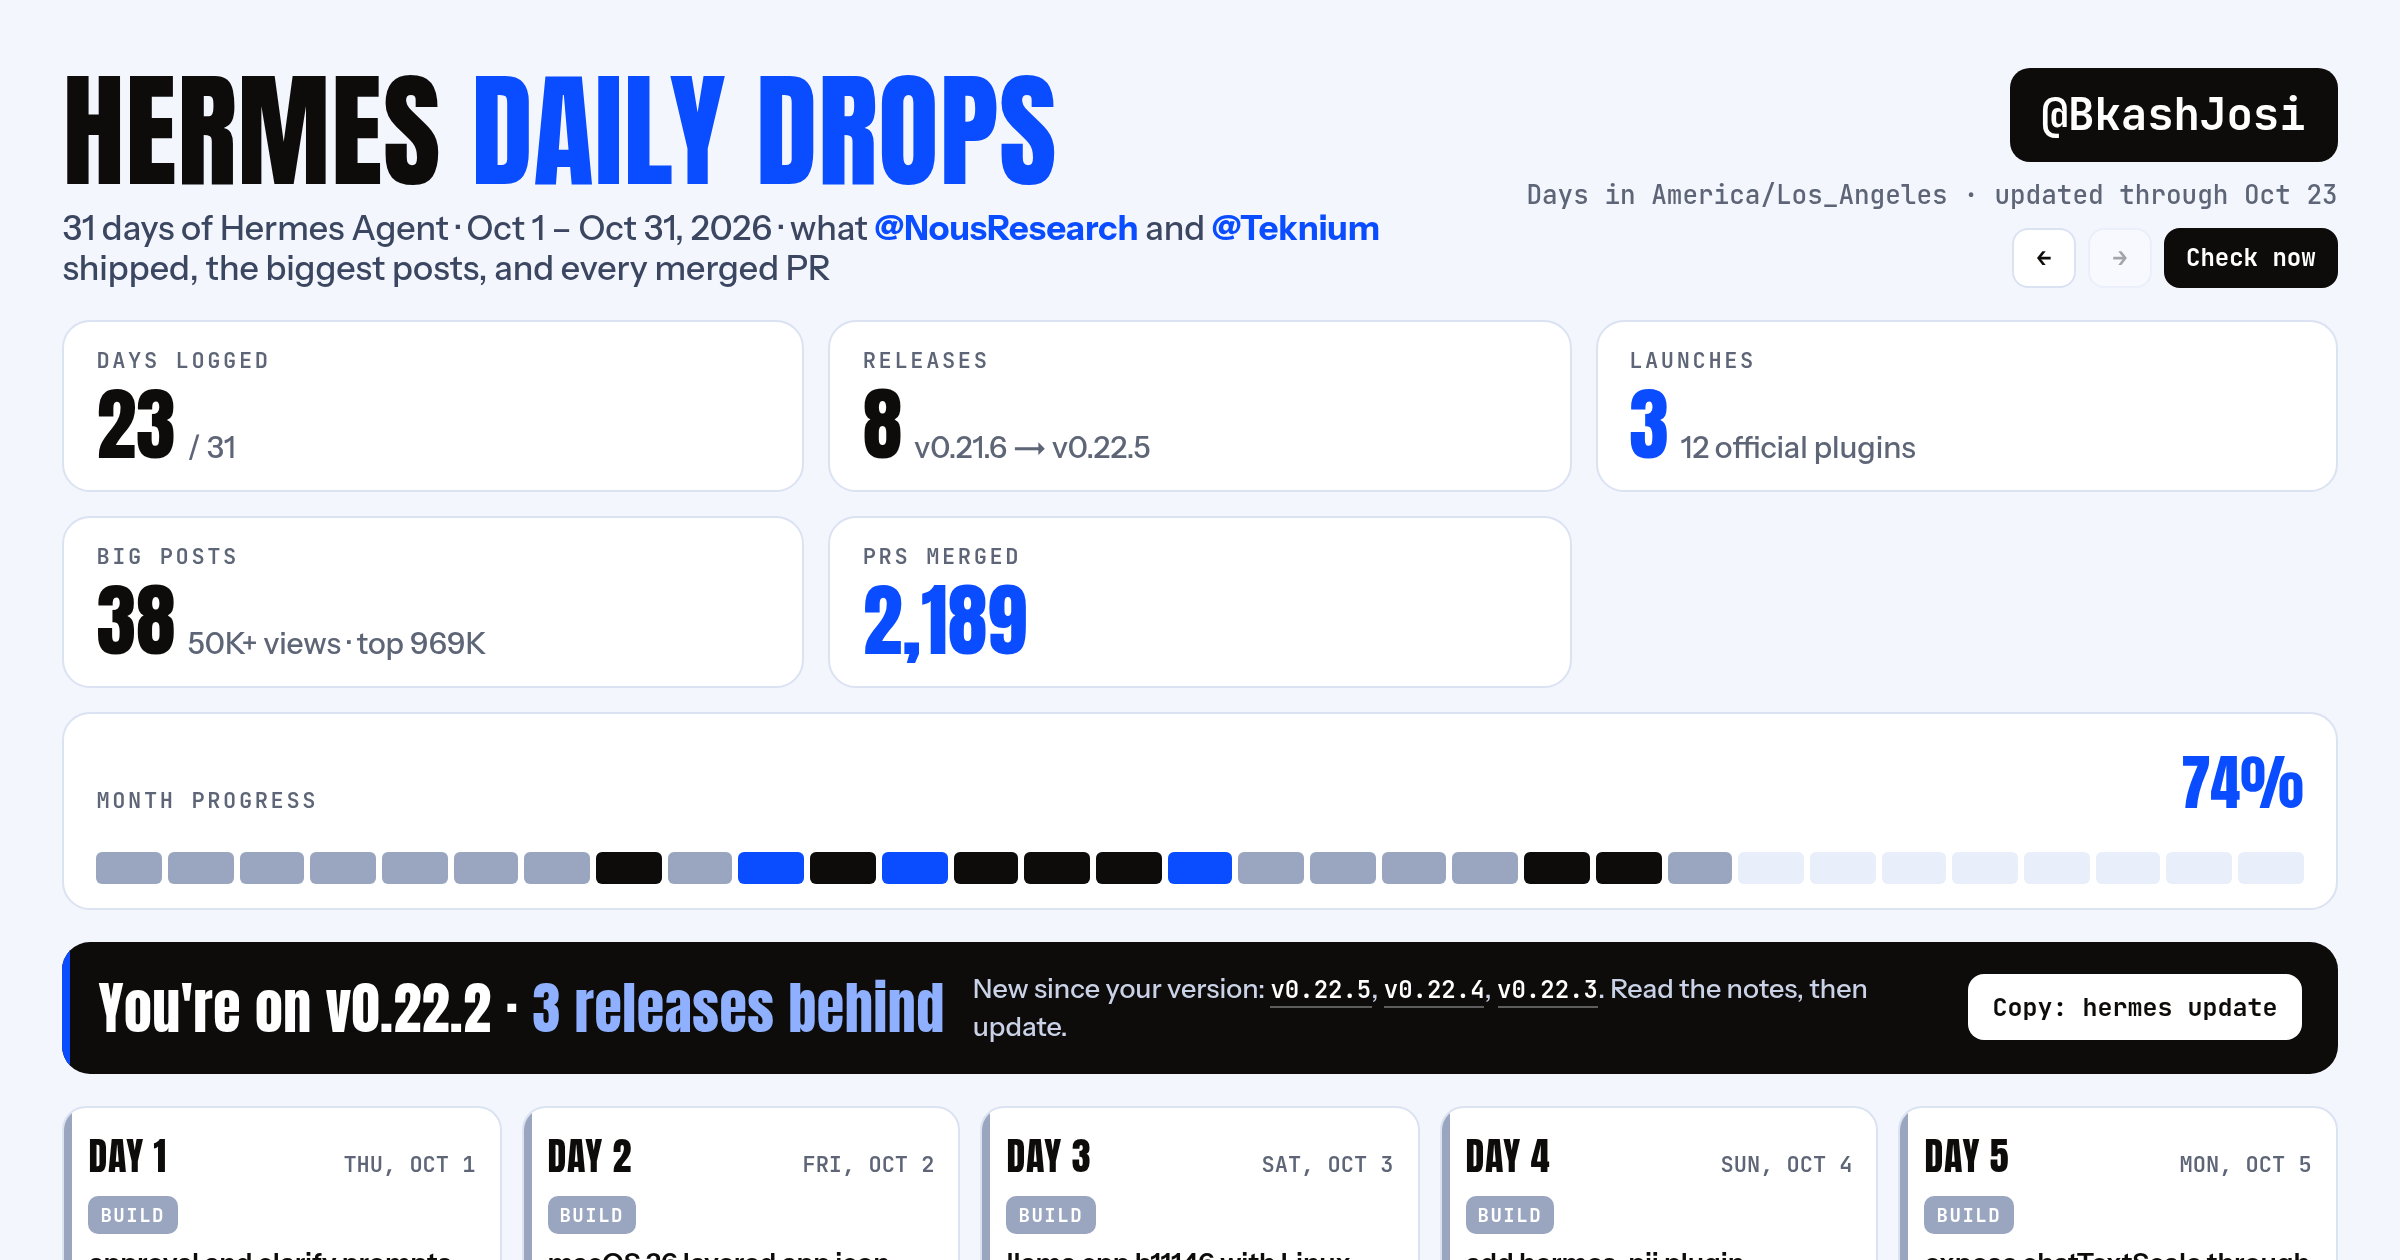
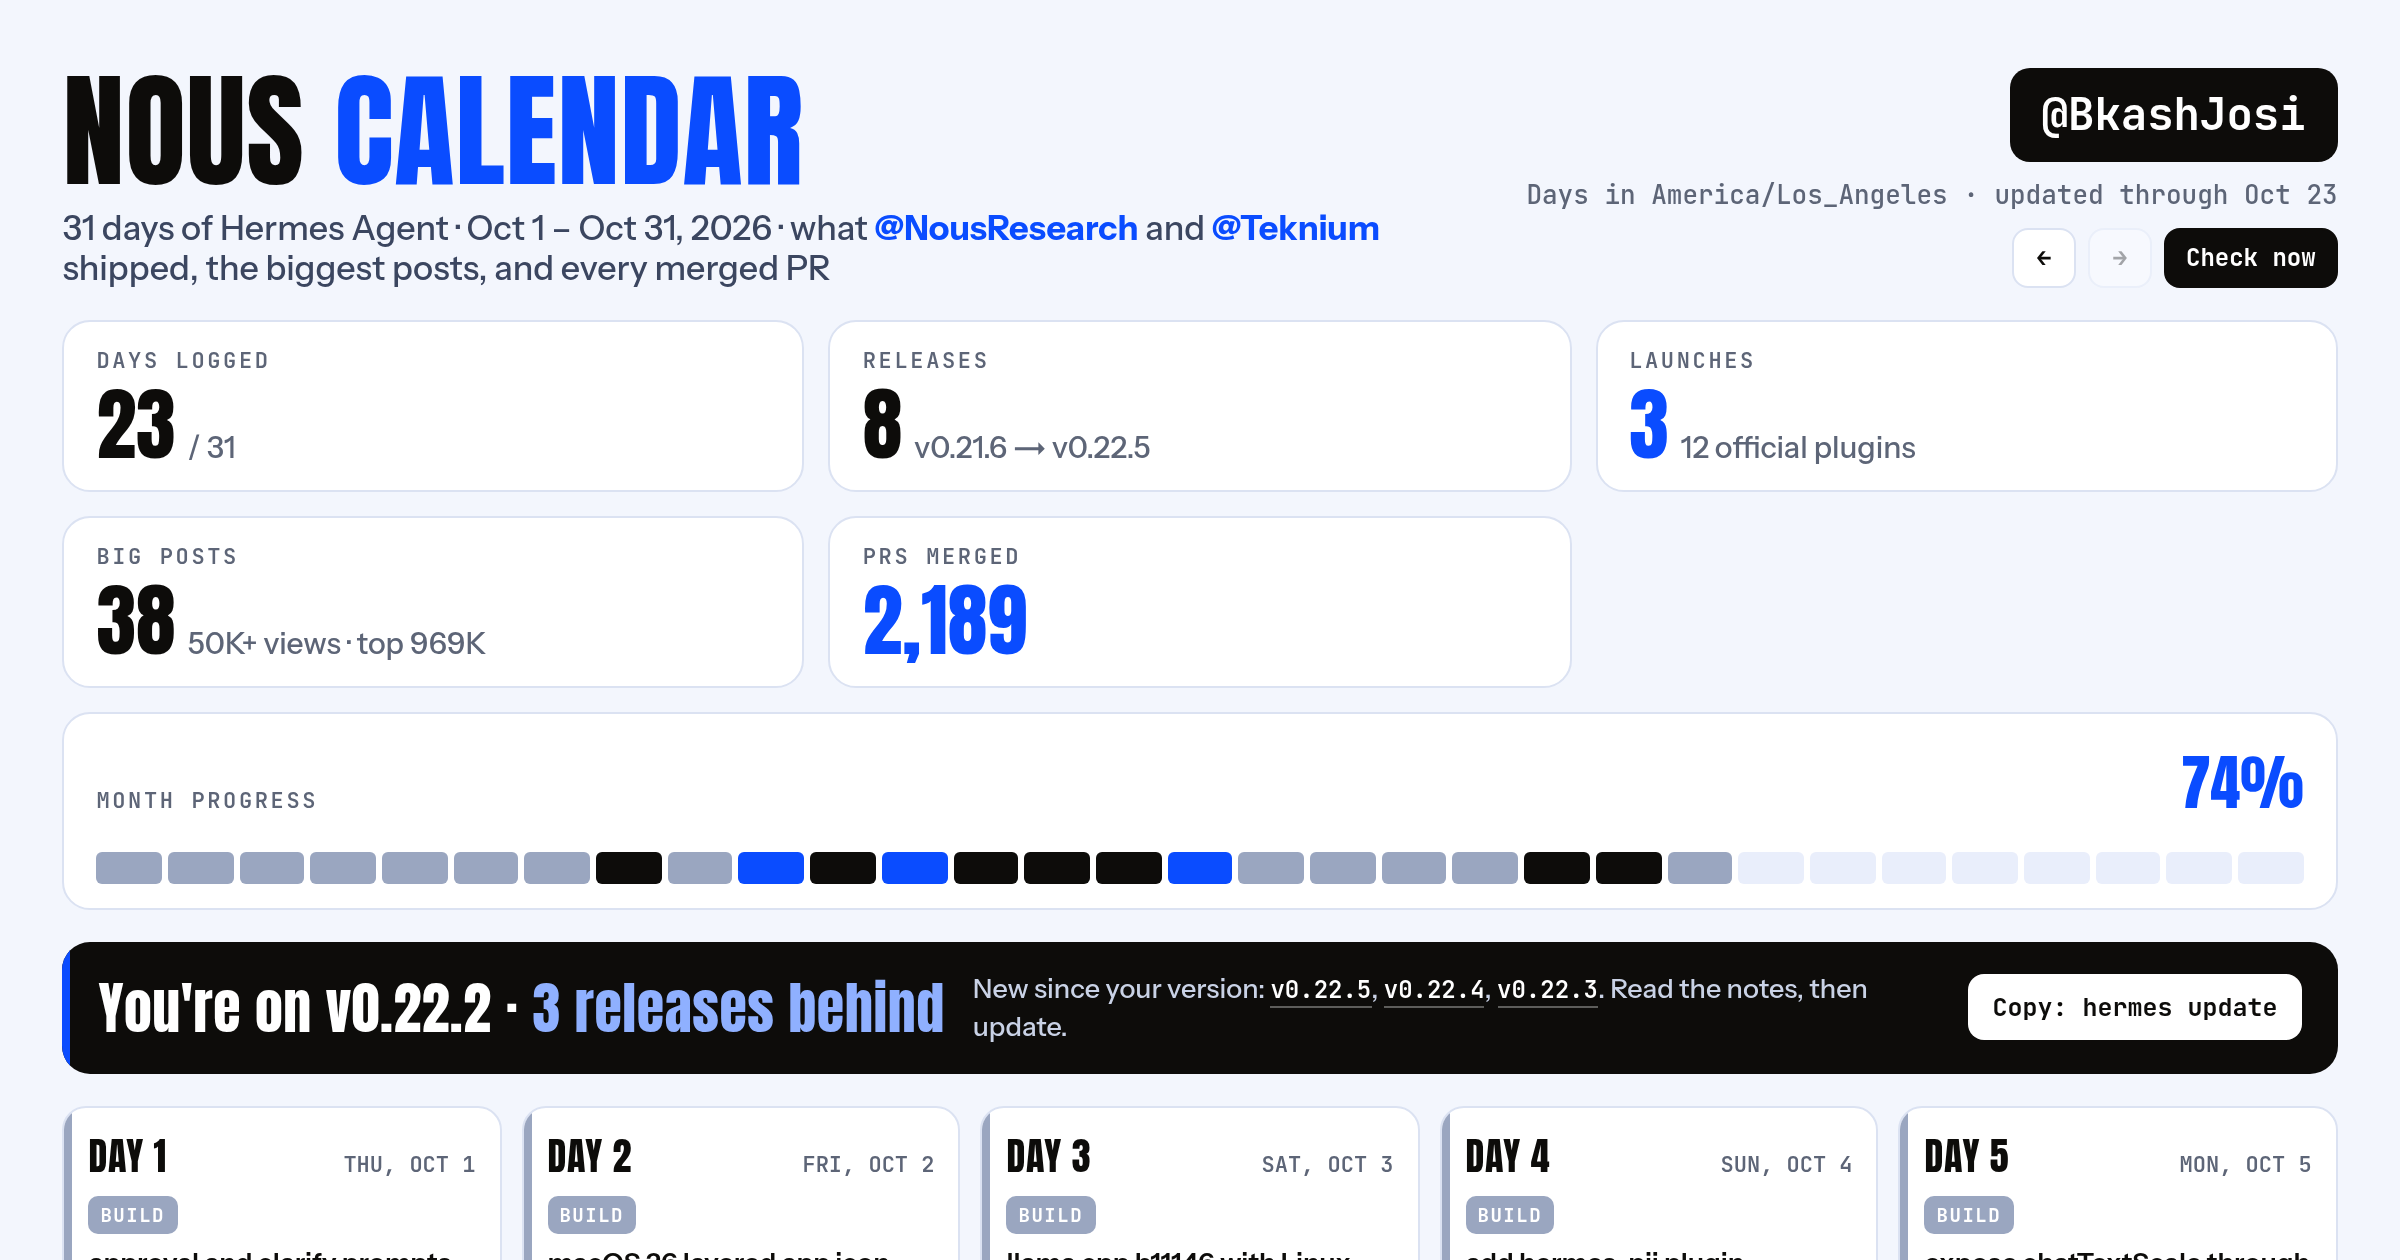
0.2.3: titled NOUS CALENDAR everywhere; fresh README screenshots

Changed region(s): [[0.0312, 0.0619, 0.4375, 0.1548]]

diff --git a/web/index.html b/web/index.html
@@ -1,8 +1,9 @@
 <!doctype html><html lang="en"><head><meta charset="utf-8">
 <meta name="viewport" content="width=device-width,initial-scale=1,viewport-fit=cover">
-<title>Hermes Daily Drops · Nous Calendar</title>
+<title>Nous Calendar · What Nous shipped for Hermes Agent</title>
 <meta name="description" content="What Nous Research shipped for Hermes Agent, day by day: releases, official plugins, features and new catalog plugins. Also a Hermes Desktop plugin.">
-<meta property="og:title" content="Hermes Daily Drops">
+<meta property="og:title" content="Nous Calendar">
+<meta name="twitter:title" content="Nous Calendar">
 <meta property="og:description" content="What Nous shipped for Hermes Agent, day by day. Install it in Hermes Desktop: hermes plugins install BkashJEE/hermes-nous-calendar">
 <meta property="og:image" content="https://nous-calendar.vercel.app/og.png">
 <meta property="og:url" content="https://nous-calendar.vercel.app/">
@@ -13,7 +14,7 @@
 <script type="importmap">{"imports":{"react":"https://esm.sh/react@19.1.0","react/jsx-runtime":"https://esm.sh/react@19.1.0/jsx-runtime","react-dom/client":"https://esm.sh/react-dom@19.1.0/client?deps=react@19.1.0","@hermes/plugin-sdk":"./sdk-shim.js"}}</script>
 <style>html,body{margin:0;height:100%;background:#f3f6fd}#root{height:100dvh}</style>
 </head><body><div id="root"></div>
-<noscript>Hermes Daily Drops needs JavaScript. The same calendar ships as a Hermes Desktop plugin: github.com/BkashJEE/hermes-nous-calendar</noscript>
+<noscript>Nous Calendar needs JavaScript. The same calendar ships as a Hermes Desktop plugin: github.com/BkashJEE/hermes-nous-calendar</noscript>
 <script type="module">
 import { createRoot } from 'react-dom/client'
 import plugin from './plugin.js'

diff --git a/desktop/plugin.js b/desktop/plugin.js
@@ -6,7 +6,7 @@
 //       If it isn't mounted, the CLI through the local gateway: `hermes nous-calendar --json --compact`.
 //       An optional "On X" layer comes from a LOCAL curated file when one is configured (never fetched).
 // Alerts: one desktop notification per NEW release or official plugin (never on the first visit).
-// Look: the Hermes Daily Drops sheet: paper, ink, Hermes blue, Anton dates, hairline grid.
+// Look: the Nous Calendar sheet (the Daily Drops poster look): paper, ink, Hermes blue, Anton dates, hairline grid.
 //       Fonts ship in ./fonts (OFL); system fallbacks keep it readable if they can't load.
 
 import * as SDK from '@hermes/plugin-sdk'
@@ -505,7 +505,7 @@ function CalendarPage() {
     h('div', { className: 'scroller' }, h('div', { className: 'wrap' },
       h('header', null,
         h('div', null,
-          h('h1', null, 'Hermes ', jsx('b', { children: 'Daily Drops' })),
+          h('h1', null, 'Nous ', jsx('b', { children: 'Calendar' })),
           h('div', { className: 'sub' }, `${count} days of Hermes Agent · ${first} – ${last} · what `, h('span', null, '@NousResearch'),
             hasX || hasPosts ? [' and ', jsx('span', { children: '@Teknium' }, 't'), ' shipped, the biggest posts, and every merged PR'] : ' shipped, plus every merged PR')),
         h('div', { className: 'right' },

diff --git a/nous_calendar.py b/nous_calendar.py
@@ -41,7 +41,7 @@ import urllib.request
 from pathlib import Path
 from zoneinfo import ZoneInfo, ZoneInfoNotFoundError
 
-VERSION = "0.2.2"
+VERSION = "0.2.3"
 CORE = "NousResearch/hermes-agent"
 OFFICIAL = "NousResearch/hermes-official-plugins"
 CATALOG_DIR = "plugin-catalog"

diff --git a/dashboard/plugin_api.py b/dashboard/plugin_api.py
@@ -21,7 +21,7 @@ from pathlib import Path
 
 from fastapi import APIRouter, HTTPException, Query
 
-VERSION = "0.2.2"
+VERSION = "0.2.3"
 router = APIRouter()
 log = logging.getLogger("hermes_nous_calendar")
 

diff --git a/CHANGELOG.md b/CHANGELOG.md
@@ -1,5 +1,9 @@
 # Changelog
 
+## 0.2.3
+
+- The page is titled **NOUS CALENDAR** everywhere (Desktop page, web page title and link previews, README screenshots).
+
 ## 0.2.2
 
 - Post likes, replies and "quoting @…" come live from X when the posts feed is built (16 hand-captured like counts were reply counts).
